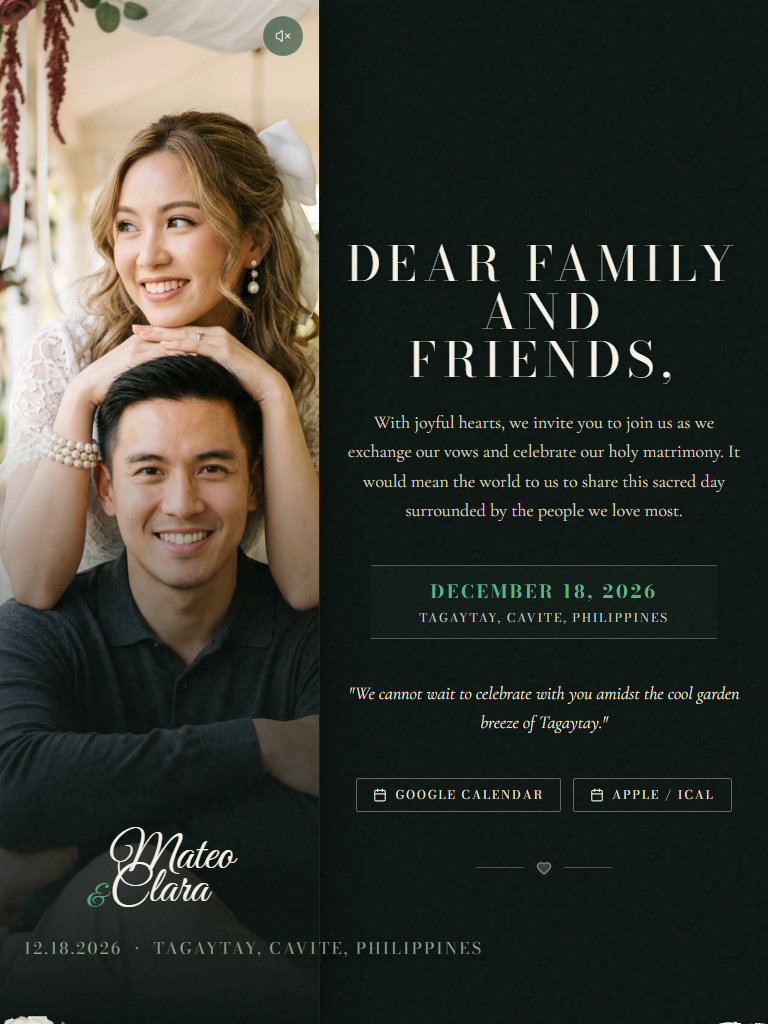
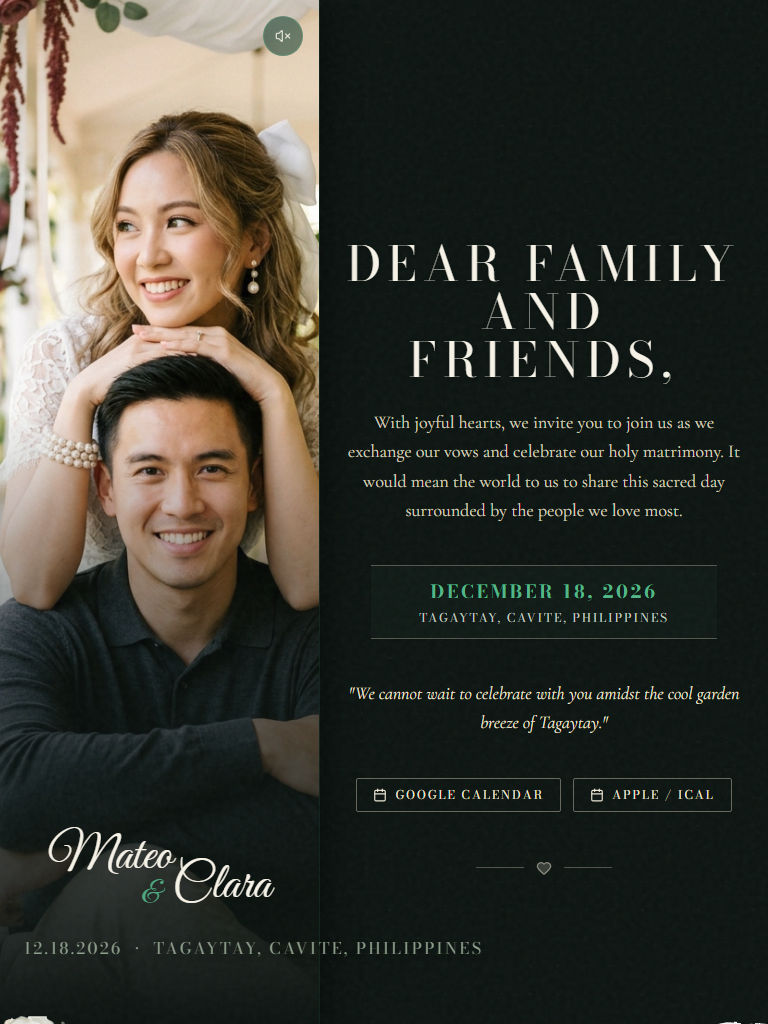
fix: hero names - classic stagger layout (Mateo left, & Clara right)

Changed region(s): [[0.0625, 0.8125, 0.375, 0.9062]]

diff --git a/src/components/Hero.tsx b/src/components/Hero.tsx
@@ -41,7 +41,7 @@ export const Hero: React.FC<HeroProps> = ({ content, isStickyColumn = false }) =
         {isPlaying ? <Volume2 className="w-4 h-4" /> : <VolumeX className="w-4 h-4" />}
       </button>
 
-      {/* Background Image: Cropped significantly more at top (~70px) and positioned for clear focus */}
+      {/* Background Image */}
       <div className="absolute inset-0 z-0 overflow-hidden">
         <img
           src={content.hero_image}
@@ -51,26 +51,26 @@ export const Hero: React.FC<HeroProps> = ({ content, isStickyColumn = false }) =
           fetchPriority="high"
           referrerPolicy="no-referrer"
         />
-        {/* Soft bottom gradient fade focused on the lower portion for the names */}
+        {/* Soft bottom gradient fade */}
         <div className="absolute inset-x-0 bottom-0 h-3/5 bg-gradient-to-t from-[#0D1512] via-[#0D1512]/65 to-transparent pointer-events-none" />
       </div>
 
       {/* Spacer to push names to the lower third */}
       <div className="flex-1" />
 
-      {/* Hero Content: Couple Names — centered with 30% larger font */}
+      {/* Hero Content: Classic stagger layout — Mateo left, ampersand center, Clara right */}
       <div className="relative z-10 w-full px-4 sm:px-6 lg:px-8 pb-0 sm:pb-1 md:pb-2 translate-y-[10px] mx-auto">
-        <h1 className="flex flex-col select-none text-center">
-          {/* First Partner (Mateo) — centered with slight offset */}
-          <span className="mx-auto pl-2 sm:pl-4 md:pl-6">
+        <h1 className="flex flex-col select-none">
+          {/* First line: Mateo (left) */}
+          <span className="text-left pl-2 sm:pl-4 md:pl-6">
             <span className="script-font text-[clamp(2.3rem,6.5vw,5rem)] text-[#F7F3E8] leading-[0.9] drop-shadow-2xl inline-block">
               {content.partner_1}
             </span>
           </span>
 
-          {/* Ampersand & Second Partner (Clara) — centered with slight offset */}
-          <span className="mx-auto pr-2 sm:pr-4 md:pr-6 -mt-1 sm:-mt-2 md:-mt-3">
-            <span className="script-font font-light text-[clamp(1.3rem,4vw,3rem)] text-emerald-light/90 mr-1 drop-shadow-xl inline-block align-middle">
+          {/* Second line: & Clara (right-aligned, staggered up) */}
+          <span className="text-right pr-2 sm:pr-4 md:pr-6 -mt-2 sm:-mt-3 md:-mt-4">
+            <span className="script-font font-light text-[clamp(1.3rem,4vw,3rem)] text-emerald-light/90 mr-2 sm:mr-3 drop-shadow-xl inline-block align-middle">
               &amp;
             </span>
             <span className="script-font text-[clamp(2.3rem,6.5vw,5rem)] text-[#F7F3E8] leading-[0.9] drop-shadow-2xl inline-block">
@@ -80,14 +80,14 @@ export const Hero: React.FC<HeroProps> = ({ content, isStickyColumn = false }) =
         </h1>
 
         {/* Date and Venue Subtitle */}
-        <div className="mt-2 sm:mt-3 text-center">
+        <div className="mt-3 sm:mt-4 text-center">
           <p className="text-sage/90 text-xs sm:text-sm md:text-base serif-title tracking-[0.22em] uppercase drop-shadow-md whitespace-nowrap">
             {content.event_date_short} &nbsp;•&nbsp; {content.venue_city}
           </p>
         </div>
       </div>
 
-      {/* Full-width Floral Bouquet Garland: Positioned lower over the section division seam */}
+      {/* Full-width Floral Bouquet Garland */}
       <div className="relative z-30 w-full flex items-end justify-center pointer-events-none -mb-20 sm:-mb-24 md:-mb-28 translate-y-[38px] sm:translate-y-[50px] md:translate-y-[60px]">
         <FloralAccent position="hero-seam" size="full" className="w-full px-0" />
       </div>
